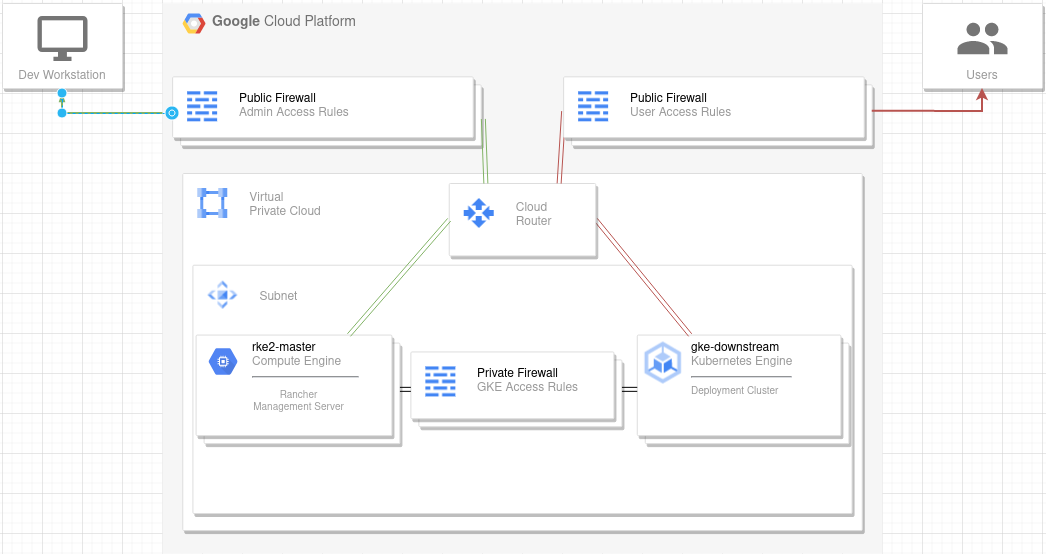
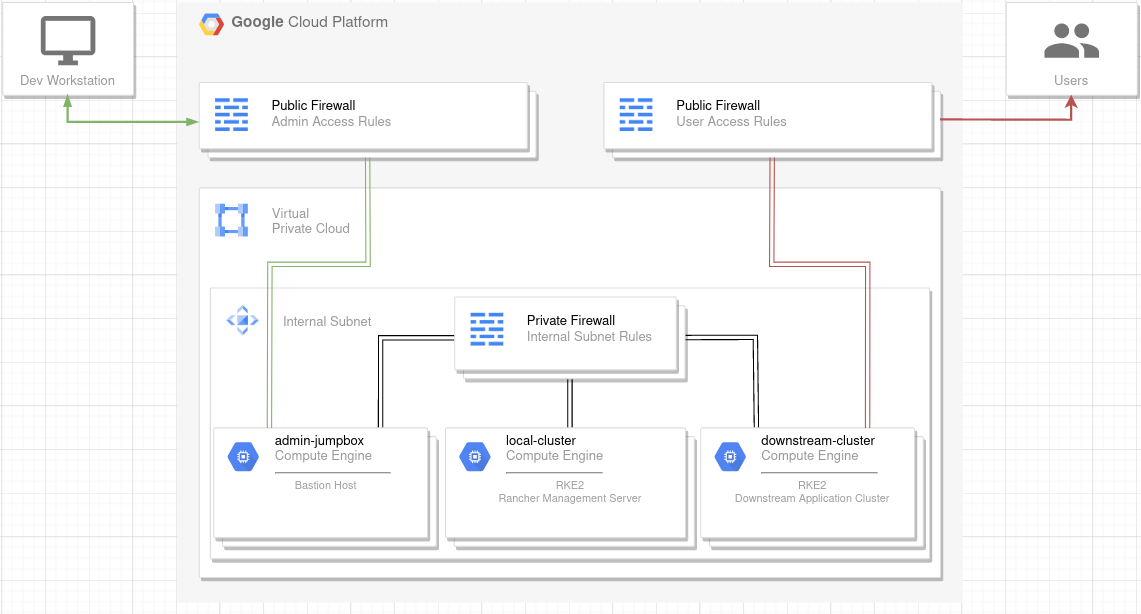
Completed Cloud Supremacy, Pt. 1

diff --git a/content/en/blog/cloud-supremacy.md b/content/en/blog/cloud-supremacy.md
@@ -1,0 +1,37 @@
++++
+title = "Cloud Supremacy, Pt. 1"
+subtitle = "My experiences deploying a Hugo website to Kubernetes using RKE2 and Rancher"
+date = "2022-01-05"
+author = "Julio Hawthorne"
+banner = "img/rancher.png"
+description = "Cloud Supremacy, Pt. 1: Introduction"
+tags = ["kubernetes"]
+keywords = ["rancher", "kubernetes", "gcp", "terraform", "rke2"]
++++
+
+# Table of Contents
+1. [Preface](#preface)
+2. [Tools of the Trade](#tools-of-the-trade)
+3. [Architectural Design](#architectural-design)
+
+<br>
+
+# Introduction
+---
+After spending a year working on SUSE's Rancher Support Team, I've decided to start sharing what I've learned with a broader audience. The explanations and components in this series of articles are oriented toward those of an intermediate skill level. The design approach allows anyone with a background in tech to get their feet wet with Cloud-Native technologies. All source code created for this project will be held in the [Cloud Supremacy Project](https://github.com/VltraHeaven/cloud-supremacy-project) on Github.
+
+<br>
+
+## Tools of the Trade
+---
+I'll leverage [Terraform](https://developer.hashicorp.com/terraform/intro) and [Terragrunt](https://terragrunt.gruntwork.io/docs/getting-started/quick-start/) throughout this project, wherever practical. This way, all referenced resources will be clearly defined as code and adaptable to various use cases. The choice to make [Hugo](https://gohugo.io/about/what-is-hugo/) my deployment target was based on my familiarity with the Static-Site Generator and the framework's nature of generating user-facing websites. This decision will make this series even more adaptable to other web app-oriented use cases. [Google Cloud Platform](https://cloud.google.com/) is my defacto cloud hosting provider; thus, my Terraform will specifically target this provider's modules. Google Cloud Platform also offers a [$300 credit to new users](https://cloud.google.com/free) for anyone looking to get their feet wet in this technology at no initial cost. While using [Rancher](https://ranchermanager.docs.rancher.com/) is not explicitly necessary for this project, it provides several robust [monitoring](https://ranchermanager.docs.rancher.com/pages-for-subheaders/monitoring-v2-configuration) and [Continuous Delivery](https://ranchermanager.docs.rancher.com/pages-for-subheaders/fleet-gitops-at-scale) utilities that makes further management of deployments much more accessible to the everyday user. Lastly, I chose [rke2](https://docs.rke2.io/) as the flavor of Kubernetes for its ease of use, security-conscious default settings, and quality-of-life features it offers over other Kubernetes distributions. 
+
+<br>
+
+## Architectural Design
+---
+![Architecture Diagram](img/cloud-supremacy-diagram.png)
+
+The diagram above visually describes the infrastructure's design. The rke2 cluster hosting the Rancher Management Server will only have one node for simplicity. Still, we will provision a Jumpbox host to access the Rancher WebUI to avoid exposing the cluster hosting Rancher to the internet. Firewall rules will also be in place to control network access between all hosts and the internet.
+
+This concludes my brief overview of the project. Stay tuned for part 2, where I'll go over getting a development environment setup and begin building out my cloud networking infrastructure.
